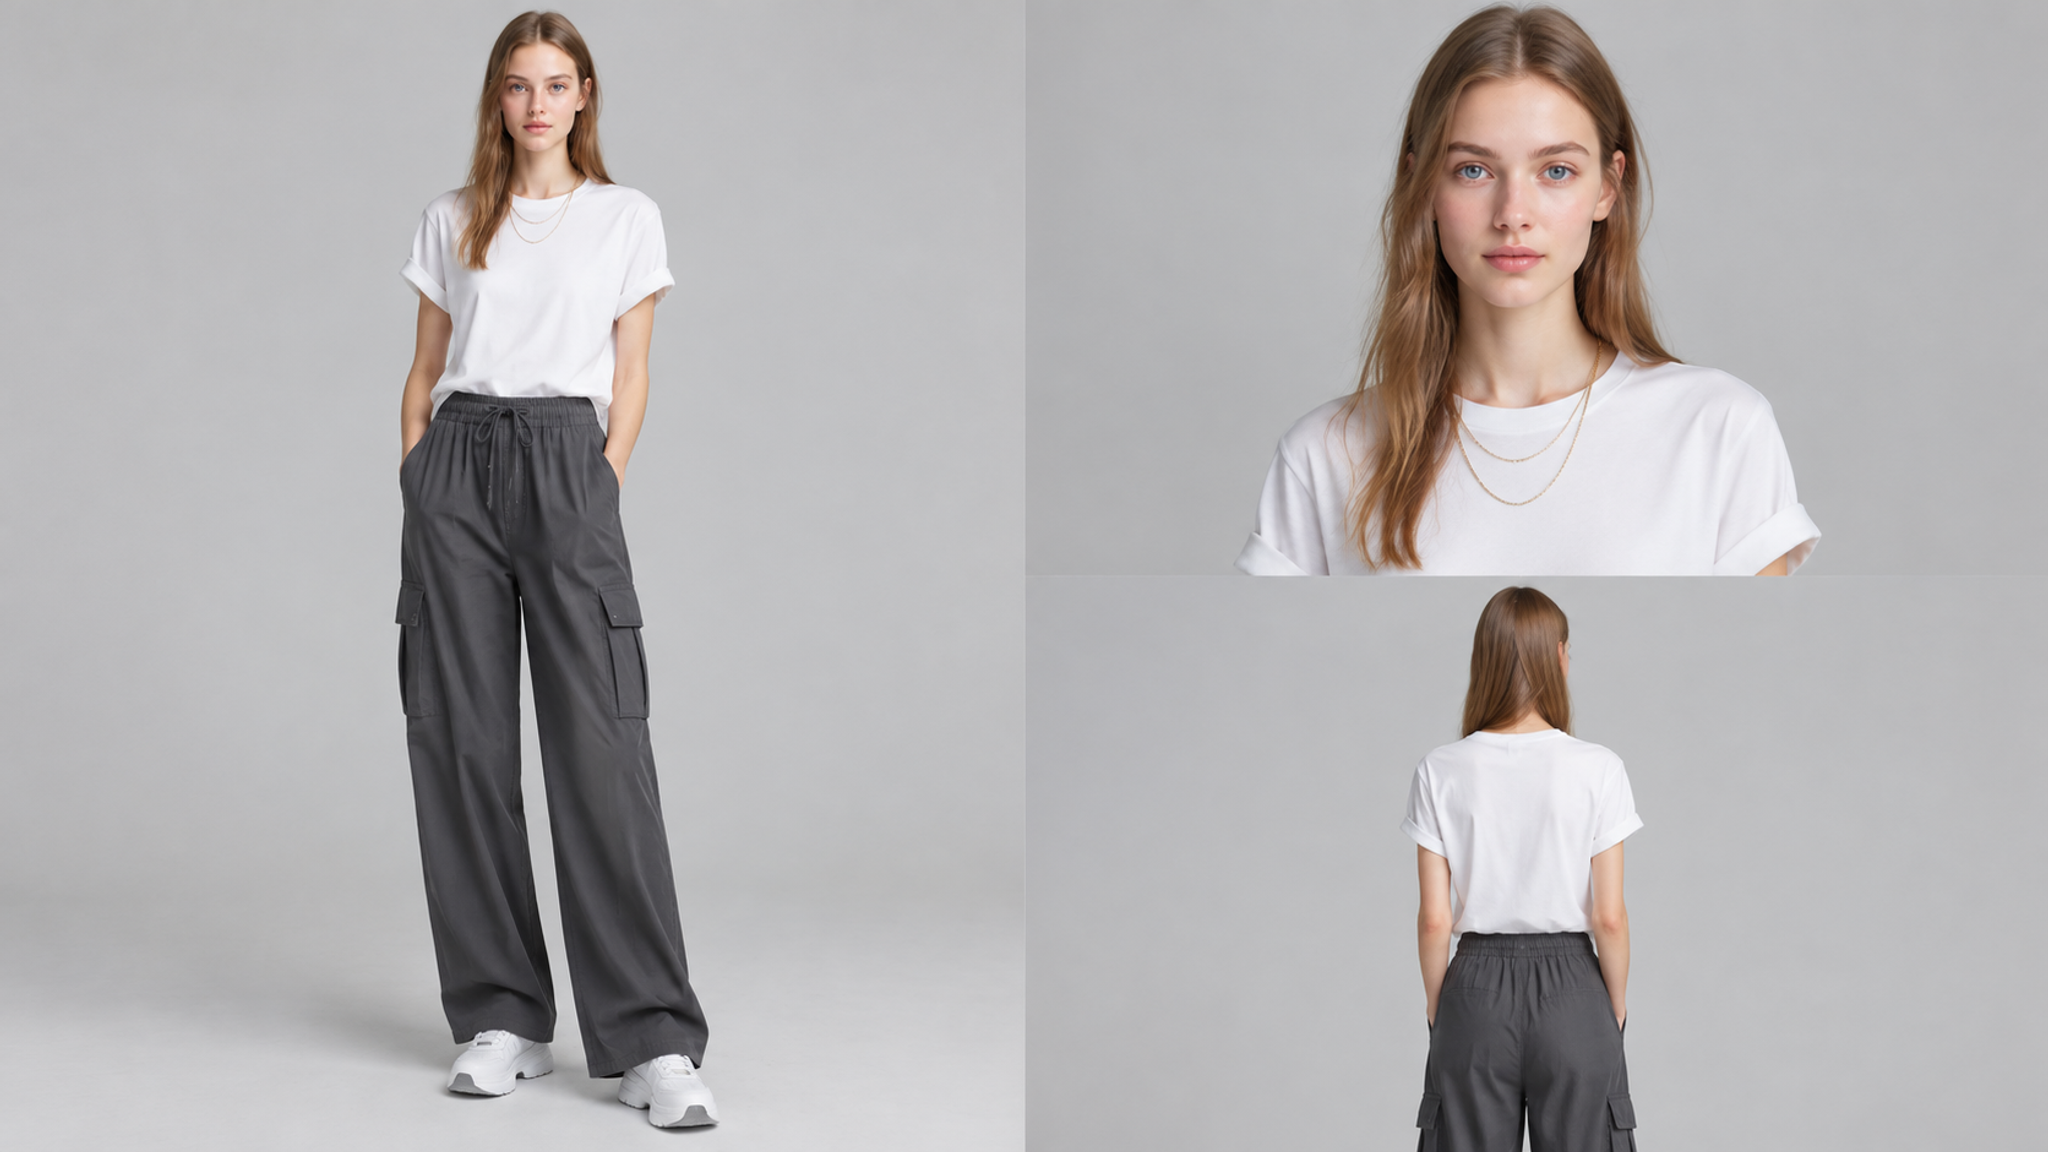
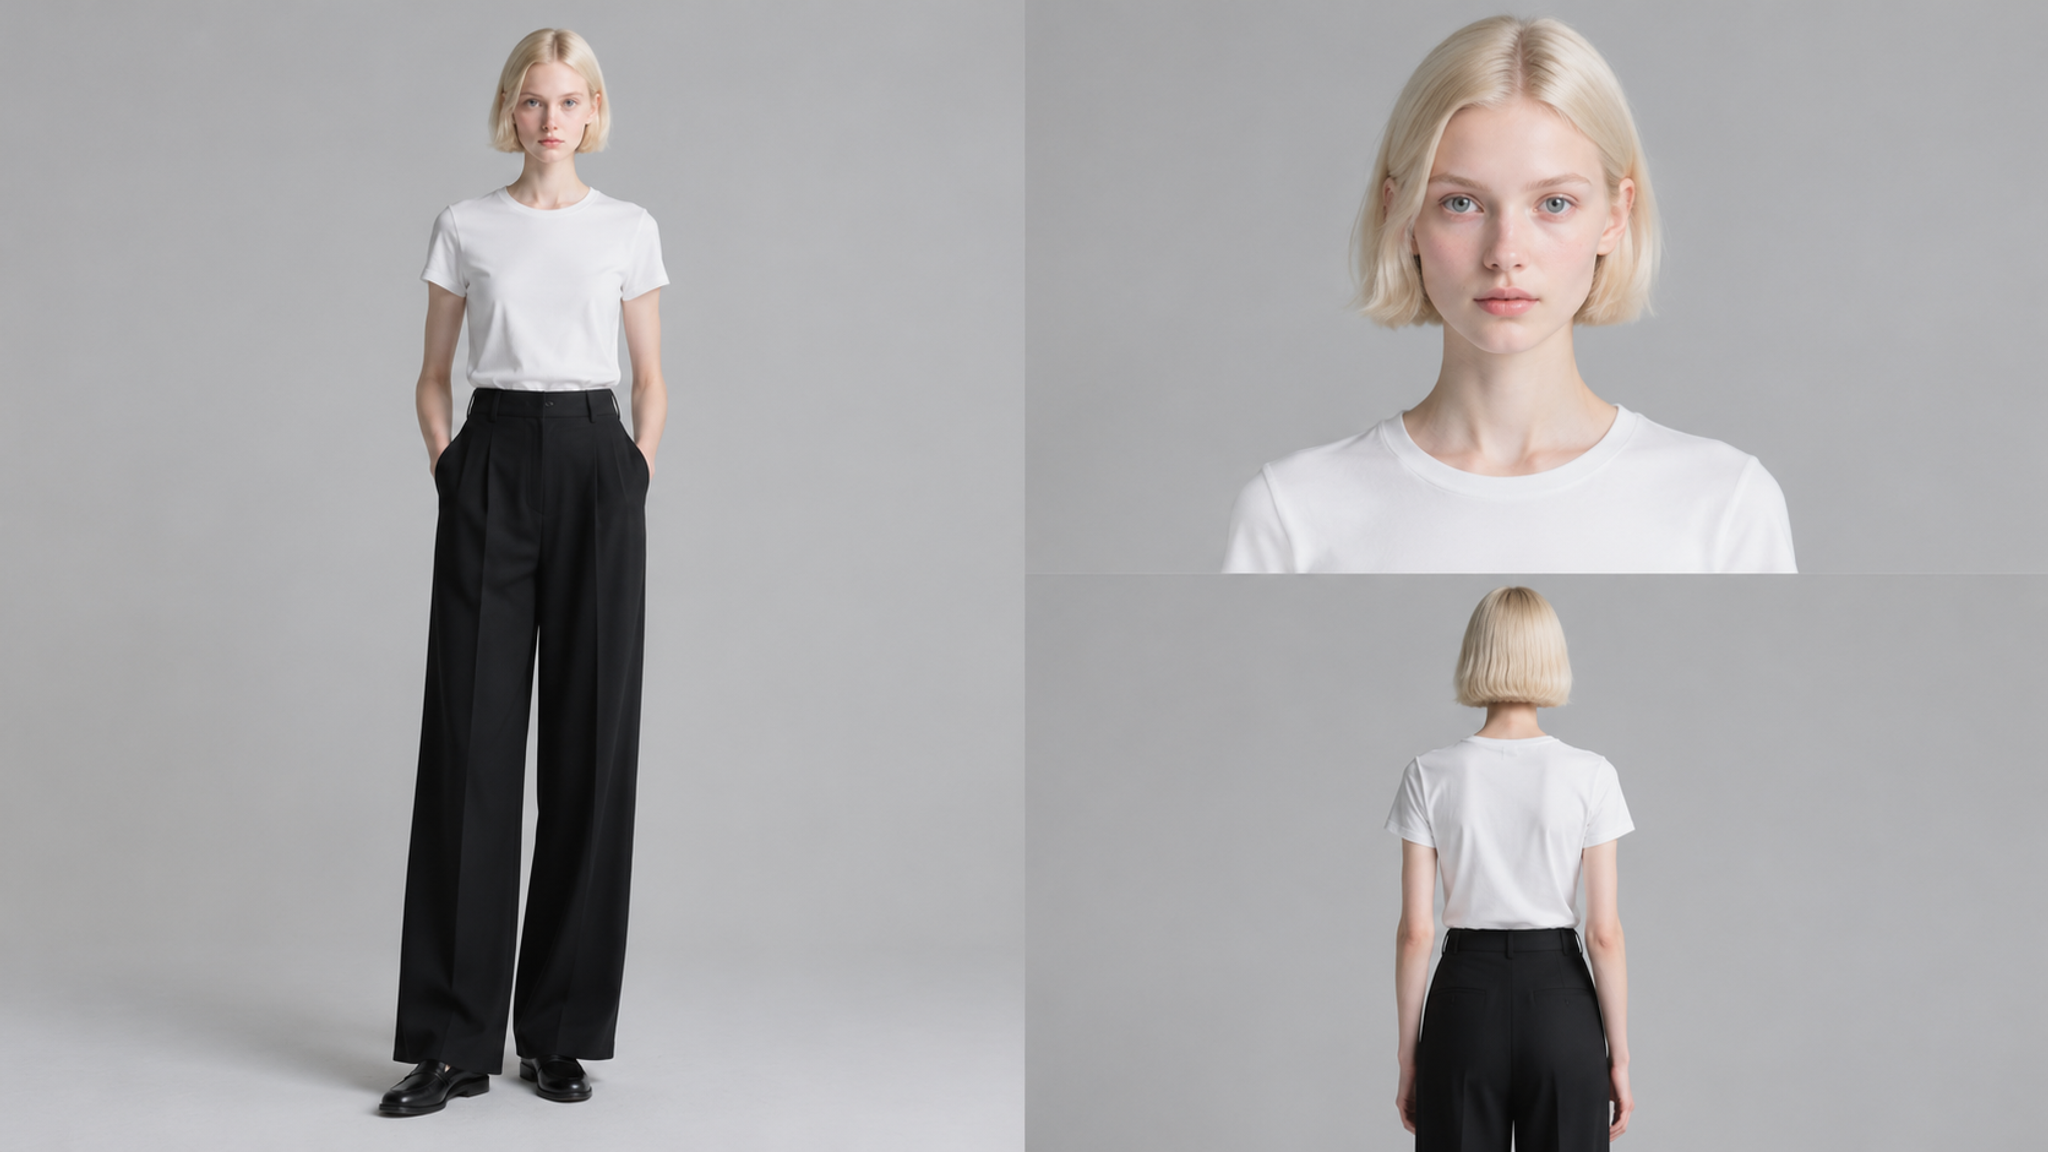
feat(tpl-tryon): v0.1.31 模特上身图换新封面(白衬衫街拍成图)与模特参考三视图素材

diff --git a/frontend/src/version.js b/frontend/src/version.js
@@ -2,7 +2,7 @@
  * 应用版本号
  * 规则: 本次发布为 v0.1.0, 后续每次更新递增一位 (v0.1.1 → v0.1.2 → …)
  */
-export const APP_VERSION = 'v0.1.30';
+export const APP_VERSION = 'v0.1.31';
 
 /** 更新日志所在位置 (前端设置页展示) */
 export const CHANGELOG_PATH = 'CHANGELOG.md';

diff --git a/CHANGELOG.md b/CHANGELOG.md
@@ -3,9 +3,34 @@
 > **版本号规则**：采用 `v0.1.n` 形式。本次发布为 **v0.1.0**，后续每次更新版本号递增一位
 > （v0.1.1 → v0.1.2 → v0.1.3 …），并在本文件顶部追加对应条目。
 
-当前版本：**v0.1.30**（前端 `frontend/package.json` / 后端 `backend/package.json` 同步为 `0.1.30`，
+当前版本：**v0.1.31**（前端 `frontend/package.json` / 后端 `backend/package.json` 同步为 `0.1.31`，
 页面版本号由 `frontend/src/version.js` 的 `APP_VERSION` 统一维护，侧栏底部与页脚均展示；
 后端版本号从 `backend/package.json` 读取）
+
+---
+
+## v0.1.31 · 2026-10-28
+
+**主题**：模特上身图模板 · 封面与模特参考图素材更换
+
+### 需求
+
+模板封面换成新一张 Lookbook 街拍成图（白衬衫 + 黑西裤，3:4）；详情图集的「图2 模特参考」
+换成新的模特形象三视图（正/面/背拼版）。
+
+### 改动
+
+1. **封面**（`frontend/public/covers/tryon-female-asia.jpg`）：替换为新成图（864×1152），
+   模板库卡片与详情图集「图3 成图效果」共用该素材，一并更新
+2. **模特参考图**（`frontend/public/flows/tryon-female-asia/model.png`）：替换为新模特三视图（2048 宽）
+
+纯素材替换，无代码逻辑改动；模板提示词、槽位、图集结构均沿用 v0.1.30。
+
+### 验收
+
+- `npm run build` 通过；4173 静态服务确认新封面 200（Content-Length 与源文件一致）
+- CDP E2E：模板库卡片封面加载（naturalWidth 864×1152）/ 详情图集三张全加载（含新模特图）/ 运行时报错 0
+- 视觉确认：详情图集截图可见新成图与新模特三视图正确渲染
 
 ---
 
